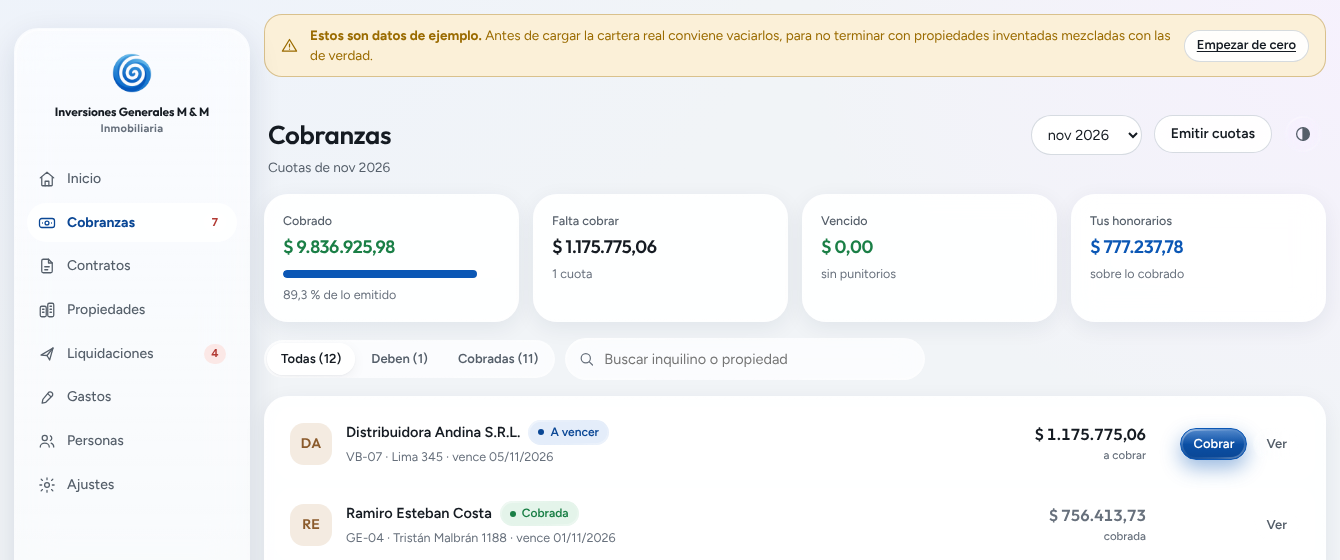
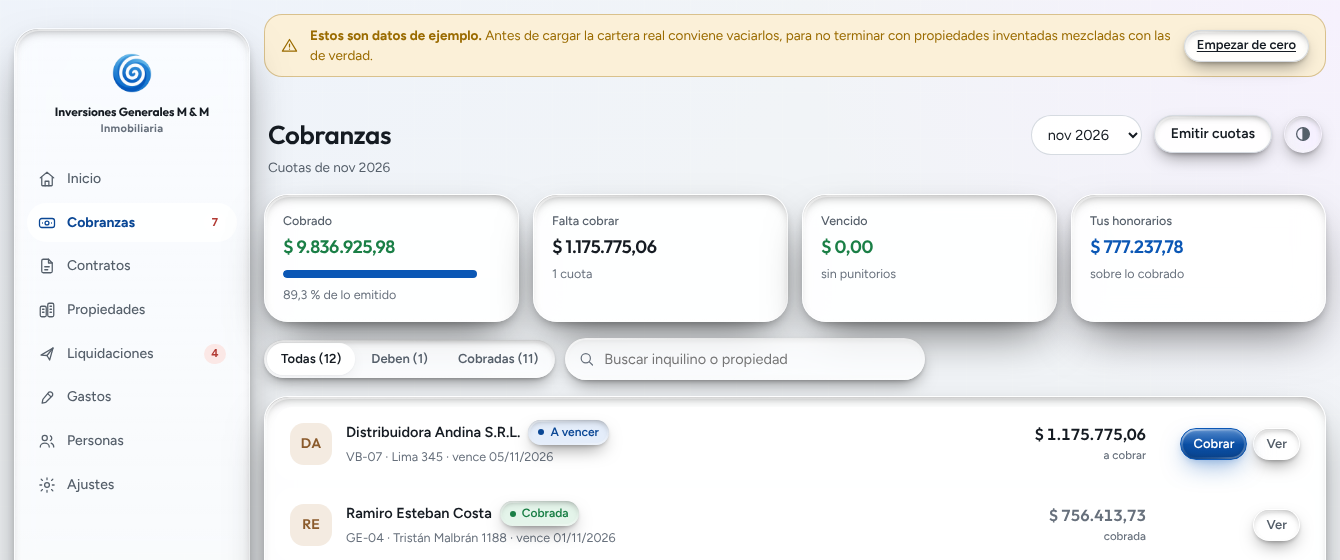
El volumen: lo que hacía falta no era color de fondo, era sombra
Lo vio Agu mirando la referencia: ahí el fondo de Apple es claro, y lo
que hace que las piezas parezcan vidrio es que tienen espesor y tiran
sombra. Mi conclusión anterior —que había que elegir entre ver el vidrio
o leer los importes— estaba mal.

Dos cambios:

- Cuatro sombras que describen una pieza iluminada desde arriba: la que
  proyecta sobre la página, una corta que la apoya, una interior bajo el
  canto de arriba que es el espesor visto desde adentro, y un rebote de
  luz en el canto de abajo.
- Una retícula tenue en el fondo. Una lente sobre un blanco plano es
  invisible porque no hay nada que deformar; las líneas finas se doblan
  al pasar por el canto y ahí se ve la refracción, sin ensuciar la
  lectura como sí lo hace un color saturado.

Medido: con ?vidrio los tres textos de referencia quedan en 5,0:1, igual
que el tema normal, y el material igual se ve. ?vidrio=max queda como la
versión llamativa para una pantalla sin números.

No hizo falta WebGL: la refracción ya era real desde feDisplacementMap,
lo que faltaba era el volumen.

Claude-Session: https://claude.ai/code/session_018the43D4iWxiWbw5aBGPZ6

diff --git a/src/styles/vidrio.css b/src/styles/vidrio.css
@@ -82,11 +82,27 @@
 
 /* El fondo que el vidrio refracta. Fijo: no se mueve con el scroll, así el
    material cambia de color según por dónde pasa el contenido. */
+:root[data-vidrio] {
+  --retícula: rgba(14, 40, 80, 0.055);
+}
+:root[data-vidrio][data-theme='dark'],
+:root[data-vidrio]:where(:not([data-theme='light'])) {
+  --retícula: rgba(255, 255, 255, 0.05);
+}
+
+/*
+ * El fondo es claro, como en la referencia de Apple. La clave no es el
+ * color: es que tenga TEXTURA FINA. Una lente sobre un blanco plano no se
+ * ve, porque no hay nada que deformar. La retícula tenue hace visible la
+ * refracción —sus líneas se doblan al pasar por el canto— sin ensuciar la
+ * lectura de los importes, que es lo que un color saturado sí haría.
+ */
 :root[data-vidrio] body {
   background:
-    radial-gradient(1100px 760px at 8% -8%, var(--vidrio-fondo-1), transparent 62%),
-    radial-gradient(980px 720px at 102% 4%, var(--vidrio-fondo-2), transparent 58%),
-    radial-gradient(900px 900px at 48% 108%, var(--vidrio-fondo-3), transparent 60%),
+    linear-gradient(var(--retícula) 1px, transparent 1px) 0 0 / 46px 46px,
+    linear-gradient(90deg, var(--retícula) 1px, transparent 1px) 0 0 / 46px 46px,
+    radial-gradient(1200px 820px at 10% -10%, var(--vidrio-fondo-1), transparent 60%),
+    radial-gradient(1000px 760px at 100% 2%, var(--vidrio-fondo-2), transparent 55%),
     var(--fondo);
   background-attachment: fixed;
 }
@@ -380,4 +396,68 @@
 :root[data-vidrio='max'] .buscador {
   backdrop-filter: url(#lente-chica) blur(6px) saturate(190%);
   -webkit-backdrop-filter: url(#lente-chica) blur(6px) saturate(190%);
+}
+
+
+/* ─────────────────────────── El volumen ───────────────────────────────
+ *
+ * Esto es lo que faltaba, y lo vio Agu mirando la referencia: las piezas de
+ * Apple no flotan por el desenfoque, flotan por la SOMBRA. Tienen espesor.
+ *
+ * Son cuatro sombras que describen una pieza de vidrio iluminada desde
+ * arriba:
+ *   1. la que proyecta sobre la página, grande y suave: el volumen;
+ *   2. una más corta y cerrada, que la apoya;
+ *   3. una sombra interior justo debajo del canto de arriba: el espesor
+ *      del vidrio visto desde adentro;
+ *   4. un rebote de luz en el canto de abajo, por donde la luz vuelve.
+ *
+ * El canto en sí lo pone el anillo de degradé del pseudo-elemento.
+ */
+:root[data-vidrio] {
+  --volumen:
+    0 20px 44px -14px rgba(16, 36, 70, 0.3),
+    0 5px 12px -5px rgba(16, 36, 70, 0.14),
+    inset 0 7px 14px -10px rgba(16, 36, 70, 0.55),
+    inset 0 -9px 16px -12px rgba(255, 255, 255, 0.95);
+  --volumen-chico:
+    0 8px 18px -6px rgba(16, 36, 70, 0.26),
+    0 2px 5px -2px rgba(16, 36, 70, 0.14),
+    inset 0 4px 8px -6px rgba(16, 36, 70, 0.5),
+    inset 0 -5px 9px -7px rgba(255, 255, 255, 0.95);
+}
+:root[data-vidrio][data-theme='dark'],
+:root[data-vidrio]:where(:not([data-theme='light'])) {
+  --volumen:
+    0 22px 48px -14px rgba(0, 0, 0, 0.6),
+    0 5px 12px -5px rgba(0, 0, 0, 0.4),
+    inset 0 7px 14px -10px rgba(0, 0, 0, 0.75),
+    inset 0 -9px 16px -12px rgba(255, 255, 255, 0.3);
+  --volumen-chico:
+    0 8px 18px -6px rgba(0, 0, 0, 0.5),
+    0 2px 5px -2px rgba(0, 0, 0, 0.35),
+    inset 0 4px 8px -6px rgba(0, 0, 0, 0.7),
+    inset 0 -5px 9px -7px rgba(255, 255, 255, 0.28);
+}
+
+:root[data-vidrio] .rail,
+:root[data-vidrio] .panel,
+:root[data-vidrio] .dato,
+:root[data-vidrio] .carta { box-shadow: var(--volumen); }
+
+:root[data-vidrio] .modal {
+  box-shadow: 0 34px 90px -20px rgba(10, 25, 55, 0.5), var(--volumen);
+}
+
+:root[data-vidrio] .btn,
+:root[data-vidrio] .pastilla,
+:root[data-vidrio] .segmentos,
+:root[data-vidrio] .buscador { box-shadow: var(--volumen-chico); }
+
+:root[data-vidrio] .btn--primario {
+  box-shadow:
+    0 10px 24px -6px rgba(11, 87, 181, 0.5),
+    0 3px 8px -3px rgba(11, 87, 181, 0.3),
+    inset 0 2px 5px -3px rgba(255, 255, 255, 0.8),
+    inset 0 -6px 10px -8px rgba(0, 0, 0, 0.45);
 }

diff --git a/README.md b/README.md
@@ -438,16 +438,32 @@ Apple es el que no puede mostrar el material de Apple.
 
 | | Cómo se prende | Se lee | Se ve |
 |---|---|---|---|
-| Sobrio | `?vidrio` | 5,0:1 | la lente está, pero el fondo es pálido y casi no hay qué deformar |
-| Saturado | `?vidrio=max` | **3,4:1** | se parece a la galería de Apple |
+| Claro con volumen | `?vidrio` | **5,0:1** | fondo claro, piezas con espesor y sombra. Es el bueno |
+| Saturado | `?vidrio=max` | 3,4:1 | fondo de colores. Se ve más, se lee peor |
 | Sin lente | `?vidrio=simple` | 5,0:1 | solo desenfoque, anda en todos los navegadores |
 
 ![Modo saturado](docs/vidrio-max.png)
 
-Ese 3,4:1 es el costo real, medido: por debajo del 4,5:1 que pide la norma
-para texto chico. **El material necesita un fondo con color para parecer
-vidrio, y los importes necesitan un fondo plano para leerse.** No hay forma
-de tener las dos cosas: es una elección, no un problema a resolver.
+### Lo que resolvió el empate: la sombra, no el color
+
+Durante un rato la conclusión fue que había que elegir entre que se viera
+el vidrio o que se leyeran los importes. Estaba mal, y lo destrabó mirar
+bien la referencia de Apple: **ahí el fondo es claro.** Lo que hace que esas
+piezas parezcan vidrio no es el color de atrás, son dos cosas:
+
+- **La sombra proyectada.** Las piezas no flotan por el desenfoque: flotan
+  porque tiran sombra y tienen espesor. Son cuatro sombras que describen un
+  vidrio iluminado desde arriba — la que proyecta sobre la página, una corta
+  que la apoya, una interior bajo el canto de arriba que es el espesor visto
+  desde adentro, y un rebote de luz en el canto de abajo.
+- **Una retícula tenue en el fondo.** Una lente sobre un blanco plano es
+  invisible: no hay nada que deformar. Las líneas finas se doblan al pasar
+  por el canto y es ahí donde se ve la refracción, sin ensuciar la lectura
+  como sí lo hace un color saturado.
+
+Con eso, `?vidrio` mantiene los importes en 5,0:1 y aun así se ve el
+material. `?vidrio=max` queda como la versión llamativa, para una pantalla
+sin números.
 
 Lo que cuesta: `backdrop-filter` en muchos elementos a la vez es trabajo para
 la placa de video. En una lista larga en un celular viejo se puede notar.
